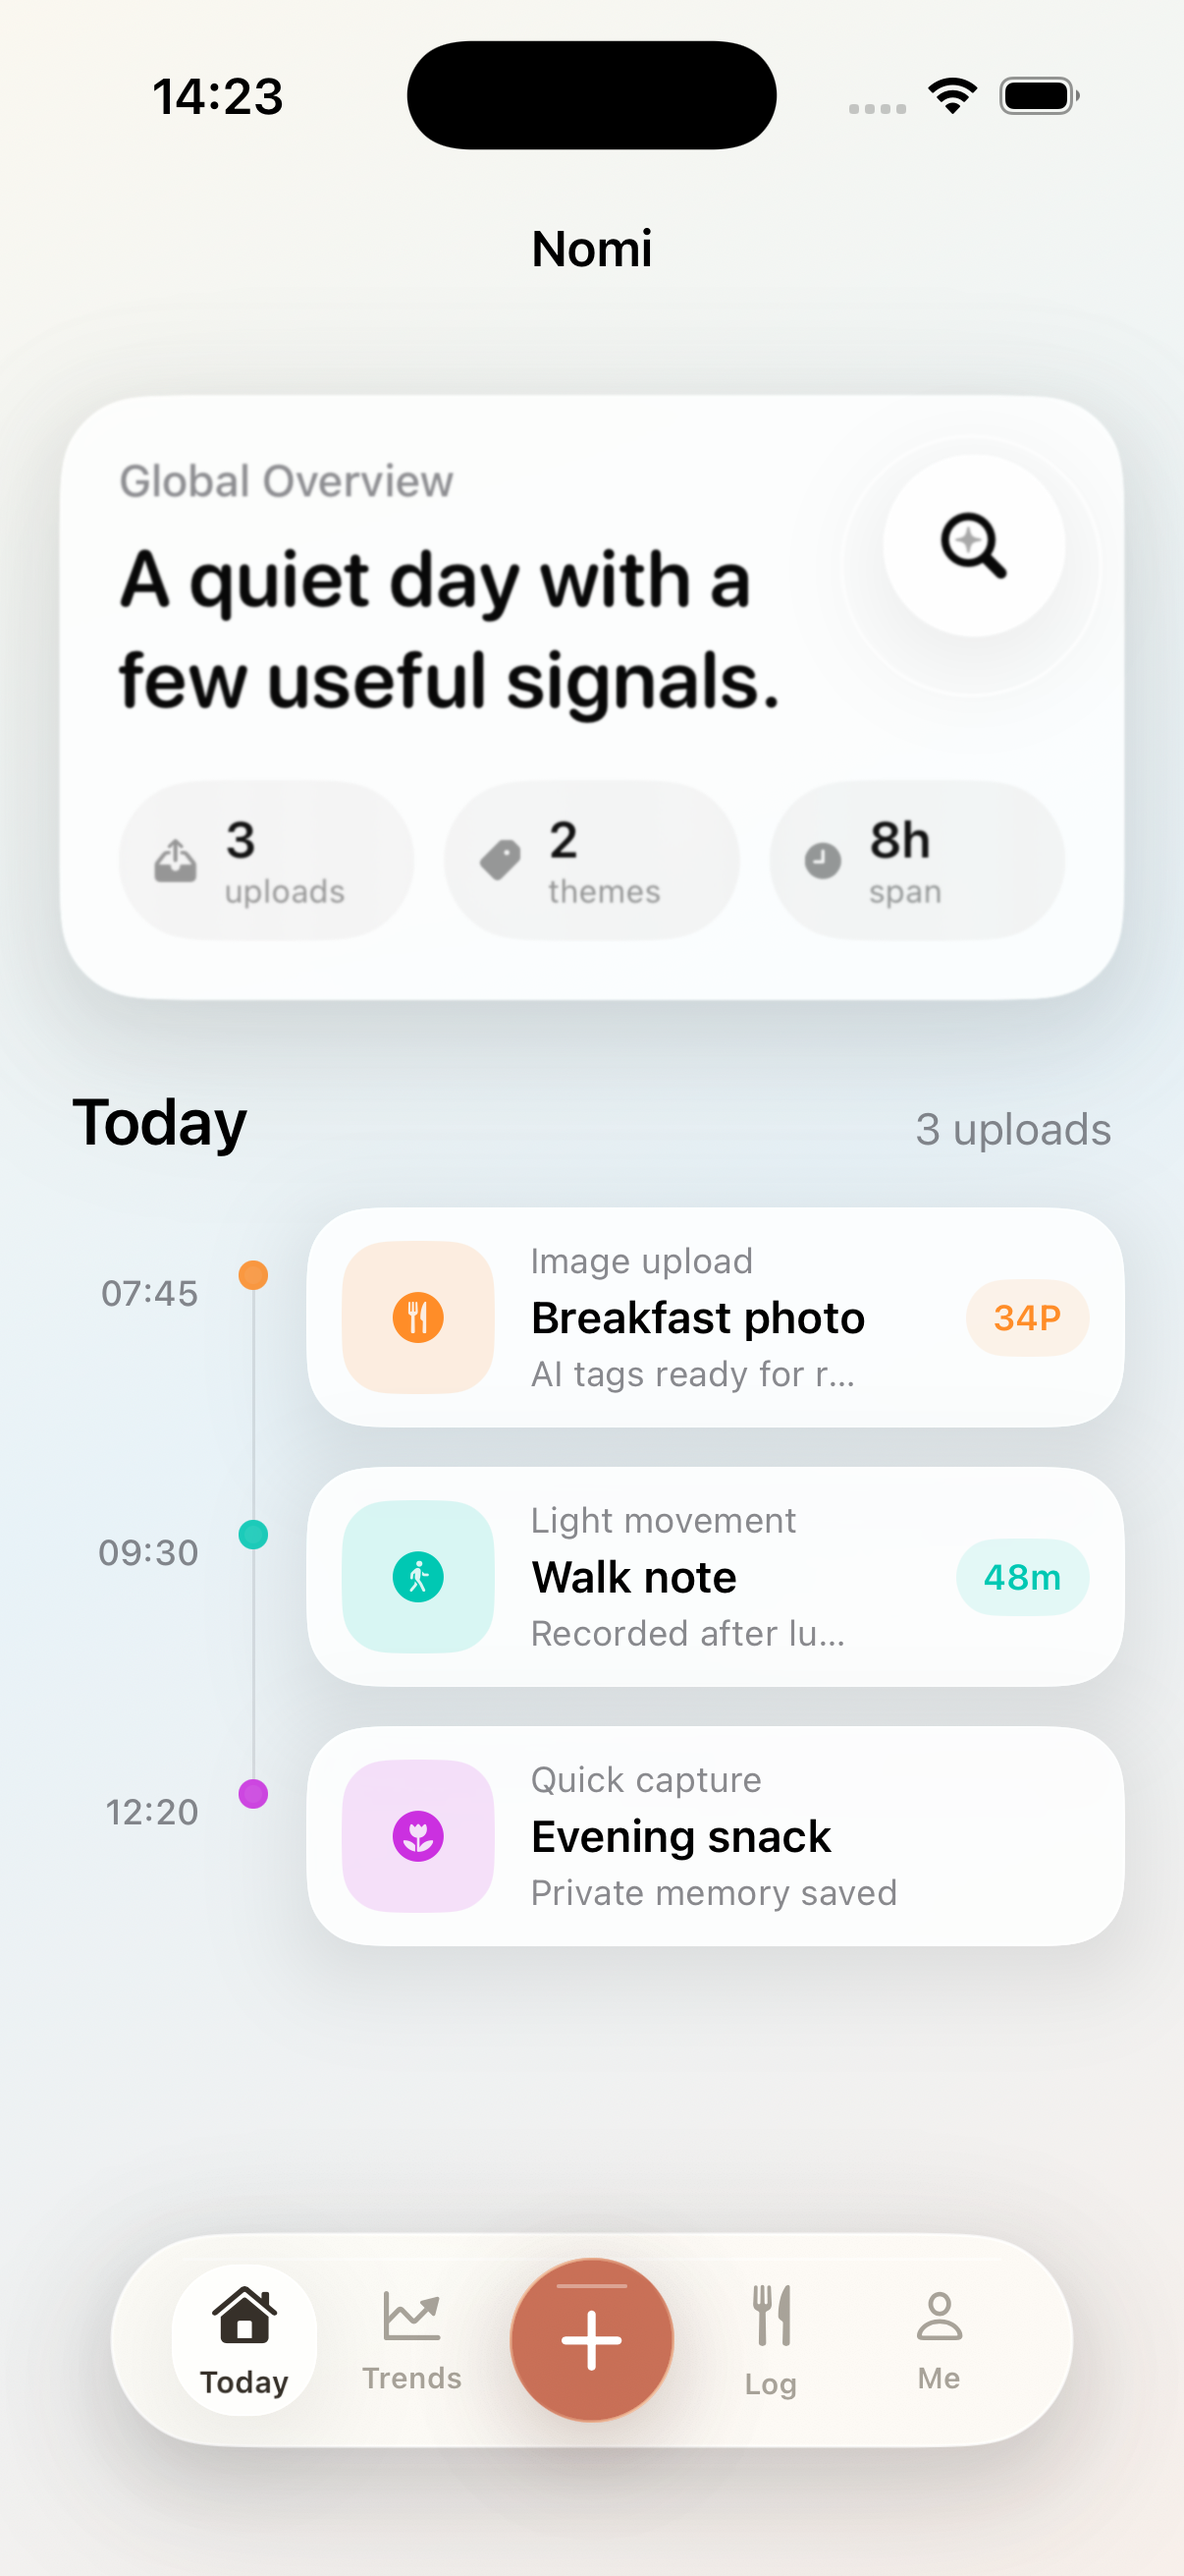
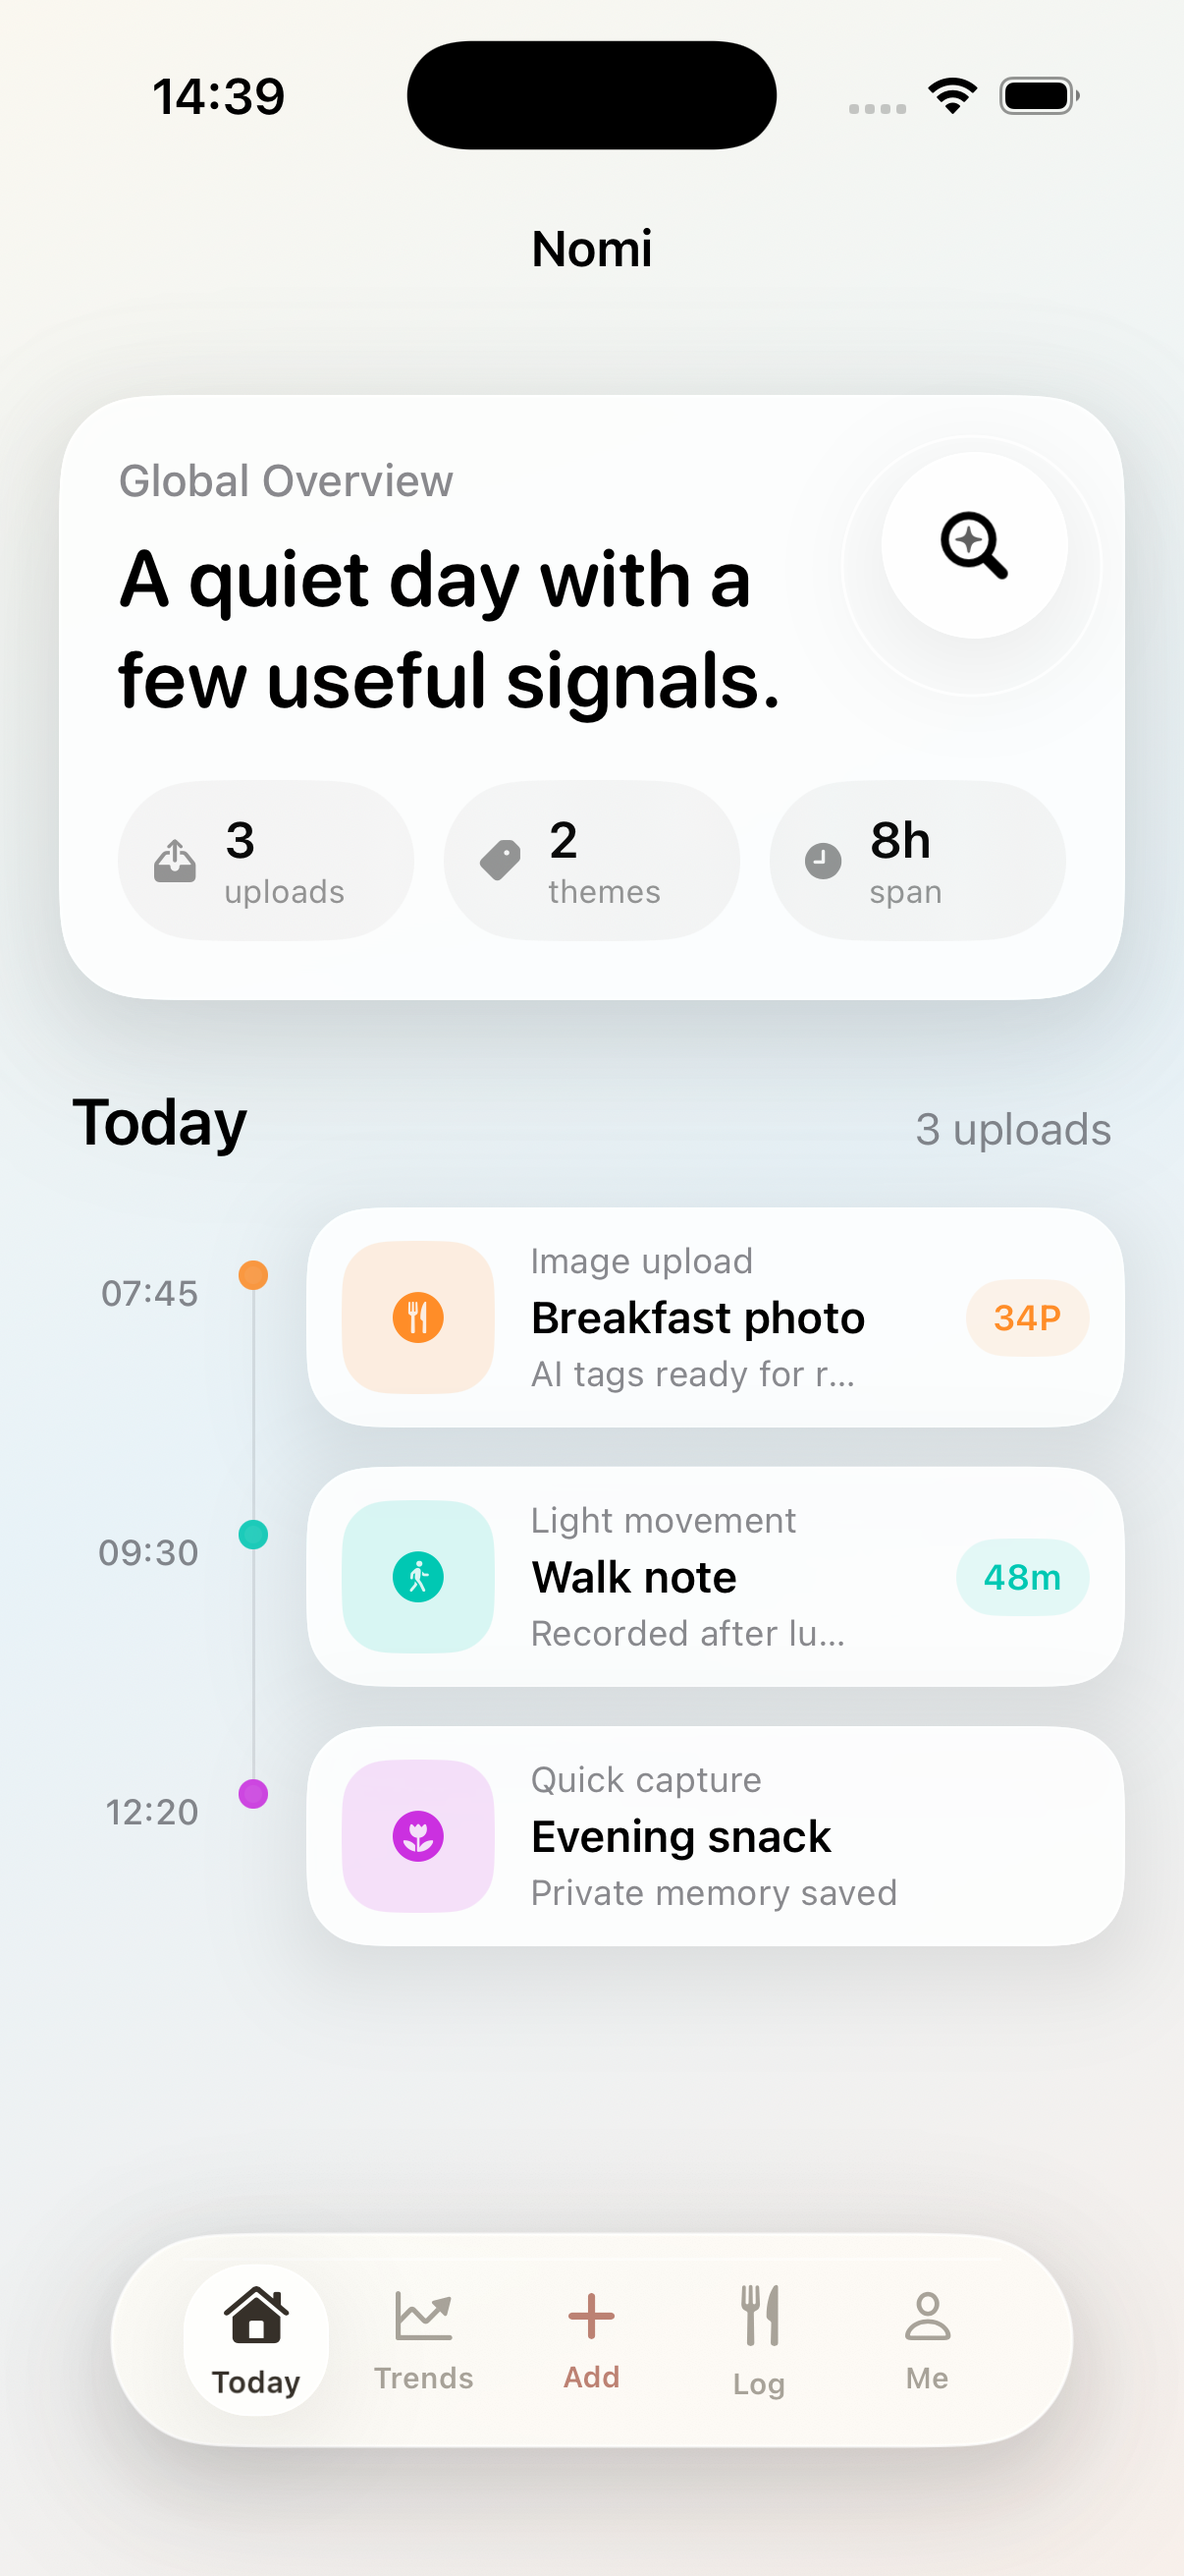
Normalize native upload nav item

diff --git a/apps/ios/NomiNative/ContentView.swift b/apps/ios/NomiNative/ContentView.swift
@@ -200,28 +200,29 @@ struct NomiBottomBar: View {
     private var uploadButton: some View {
         let isActive = activeSlot == .upload
 
-        return Image(systemName: "plus")
-            .font(.system(size: 25, weight: .medium))
-            .frame(width: 56, height: 56)
-            .background {
-                Circle()
-                    .fill(Color(red: 0.79, green: 0.44, blue: 0.34))
-                    .glassEffect(.regular.interactive(), in: .circle)
+        return VStack(spacing: 5) {
+            Image(systemName: "plus")
+                .font(.system(size: 19, weight: .semibold))
+                .symbolEffect(.bounce, value: activeSlot)
+            Text("Add")
+                .font(.system(size: 10, weight: .semibold))
+        }
+        .frame(width: 48, height: 50)
+        .foregroundStyle(Color(red: 0.66, green: 0.36, blue: 0.29).opacity(isActive ? 1 : 0.76))
+        .background {
+            if isActive {
+                RoundedRectangle(cornerRadius: 22, style: .continuous)
+                    .fill(Color(red: 0.80, green: 0.43, blue: 0.34).opacity(0.12))
+                    .glassEffect(.regular, in: .rect(cornerRadius: 22))
+                    .transition(.scale.combined(with: .opacity))
             }
-            .overlay(alignment: .top) {
-                Capsule()
-                    .fill(.white.opacity(0.36))
-                    .frame(width: 24, height: 1.4)
-                    .padding(.top, 9)
-            }
-            .foregroundStyle(.white)
-            .scaleEffect(isActive ? 1.06 : 1)
-            .shadow(color: Color(red: 0.39, green: 0.17, blue: 0.12).opacity(isActive ? 0.24 : 0.18), radius: isActive ? 18 : 14, y: 8)
-            .accessibilityLabel("Upload")
-            .accessibilityAddTraits(.isButton)
-            .accessibilityAction {
-                onAdd()
-            }
+        }
+        .scaleEffect(isActive ? 1.07 : 1)
+        .accessibilityLabel("Upload")
+        .accessibilityAddTraits(.isButton)
+        .accessibilityAction {
+            onAdd()
+        }
     }
 
     private func tabButton(_ tab: NomiTab) -> some View {

diff --git a/docs/histories/2026-05/20260507-1256-native-ios-mobile-shell.md b/docs/histories/2026-05/20260507-1256-native-ios-mobile-shell.md
@@ -8,7 +8,7 @@
 
 ### User Query
 
-> 将当前 React Native mobile 原型改为 Swift 原生 iOS app，先实现首页和上传上拉页；其他页面占位；风格参考 Apple / Liquid Glass，并在 iPhone 17 Pro simulator 自测截图，每个重要 milestone 提交。后续按截图反馈把 `+` 移到底部导航栏中央、加大 Upload sheet 顶部留白，收紧首页 timeline，把底栏从过重的参考图样式调回 Nomi 自身的轻量玻璃语言，并恢复底栏按住左右滑动的连续切换交互。
+> 将当前 React Native mobile 原型改为 Swift 原生 iOS app，先实现首页和上传上拉页；其他页面占位；风格参考 Apple / Liquid Glass，并在 iPhone 17 Pro simulator 自测截图，每个重要 milestone 提交。后续按截图反馈把上传入口移到底部导航栏中间、加大 Upload sheet 顶部留白，收紧首页 timeline，把底栏从过重的参考图样式调回 Nomi 自身的轻量玻璃语言，恢复底栏按住左右滑动的连续切换交互，并把中间上传入口内化为普通 Add 导航项。
 
 ### Changes Overview
 
@@ -17,11 +17,12 @@
 **Key Actions:**
 
 - **Native iOS scaffold**: 新增 versioned `apps/ios/NomiNative.xcodeproj`，目标 iOS 26.0，bundle id `dev.nomi.native`。
-- **Home screen**: 实现 SwiftUI 首页，包含顶部全局总览、紧凑今日 timeline、玻璃卡片、占位 tab 和底部导航栏中央 `+`。
+- **Home screen**: 实现 SwiftUI 首页，包含顶部全局总览、紧凑今日 timeline、玻璃卡片、占位 tab 和底部导航栏中间 Add 上传项。
 - **Upload sheet**: 实现上拉上传页，支持 Camera placeholder、PhotosPicker、fileImporter、图片选择后的本地 timeline 插入路径，以及上传进度动画。
 - **Feedback pass**: 根据视觉反馈移除顶部 `+`，新增自定义底部 glass nav；Upload sheet 顶部标题和关闭按钮增加上边距；timeline 改成时间 rail + 88pt 紧凑卡片。
-- **Bottom nav correction**: 将上一版过大的黑色胶囊底栏收回为较小的暖色玻璃底栏，中央 `+` 保持主入口，tab 选中态改为滑动玻璃底托以保留按键之间的流动感。
-- **Bottom nav gesture**: 将底栏从多个孤立按钮改为整条 bar 的 `DragGesture(minimumDistance: 0)`，按住左右滑动时根据手指 x 位置实时切换 tab；中央 `+` 仅在从 `+` 起手轻点释放时打开上传。
+- **Bottom nav correction**: 将上一版过大的黑色胶囊底栏收回为较小的暖色玻璃底栏，中间上传入口保持主动作位置，tab 选中态改为滑动玻璃底托以保留按键之间的流动感。
+- **Bottom nav gesture**: 将底栏从多个孤立按钮改为整条 bar 的 `DragGesture(minimumDistance: 0)`，按住左右滑动时根据手指 x 位置实时切换 tab；中间 Add 仅在从 Add 起手轻点释放时打开上传。
+- **Upload nav item**: 将中间上传入口从独立圆形 `+` 改为普通 Add 导航项，和其他 tab 保持 48x50 尺寸、文字标签、轻量按压反馈与底栏调性一致。
 - **Motion / style**: 使用 SwiftUI spring / smooth 动画、symbolEffect、contentTransition、glass button style 和 glassEffect，贴近 Apple-like / Liquid Glass 方向。
 - **Verification**: 在 iPhone 17 Pro simulator build / install / launch，并保存首页和上传 sheet 截图。
 

diff --git a/docs/exec-plans/completed/2026-05-07-native-ios-mobile-shell.md b/docs/exec-plans/completed/2026-05-07-native-ios-mobile-shell.md
@@ -6,7 +6,7 @@
 
 ## 范围
 
-- 包含：SwiftUI app scaffold、首页全局总览、紧凑今日 timeline、底部导航栏中央 `+` 触发的上传 sheet、Photos / Files 选择边界、占位 tab、Liquid Glass 风格视觉与动画、截图验证和文档同步。
+- 包含：SwiftUI app scaffold、首页全局总览、紧凑今日 timeline、底部导航栏中间 Add 上传项触发的上传 sheet、Photos / Files 选择边界、占位 tab、Liquid Glass 风格视觉与动画、截图验证和文档同步。
 - 不包含：server persistence、真实 AI 分类、真机 camera capture、完整 UI test target。
 
 ## 背景
@@ -47,7 +47,8 @@
 ## 决策记录
 
 - 2026-05-07：新建 `apps/ios/`，不复用 `apps/mobile/ios/`。原因是后者是 Expo prebuild generated / ignored output，不适合作为原生 SwiftUI app 的长期版本化边界。
-- 2026-05-07：优先使用系统 `NavigationStack`、SwiftUI sheet、`PhotosPicker`、`fileImporter` 和 iOS 26 glass modifiers；底部主导航用自定义暖色小 glass bar 承载中央上传入口。原因是目标风格要求 Apple-like / Liquid Glass，同时上传主动作需要稳定停留在拇指区中央，chrome 不能压过内容。
+- 2026-05-07：优先使用系统 `NavigationStack`、SwiftUI sheet、`PhotosPicker`、`fileImporter` 和 iOS 26 glass modifiers；底部主导航用自定义暖色小 glass bar 承载中间 Add 上传项。原因是目标风格要求 Apple-like / Liquid Glass，同时上传动作需要稳定停留在拇指区，chrome 不能压过内容。
 - 2026-05-07：将上传主入口从顶部导航栏迁到自定义底部栏中央，并将首页 timeline 改为时间 rail + 紧凑卡片。原因是移动端核心动作更适合拇指区，视觉密度也更接近目标参考图。
 - 2026-05-07：底部栏只参考位置关系，不复刻参考图黑色大胶囊；回到 Nomi 既有暖色玻璃、轻阴影和 matched-geometry 选中态流动。原因是 Nomi 的设计方向是 quiet / content over chrome。
-- 2026-05-07：底栏交互改为整条 bar 的连续拖拽命中，不再由孤立 Button 分别处理 tab；拖过 tab 时实时切换并给 selection haptic，中央 `+` 只有从 `+` 起手轻点释放才打开上传。原因是恢复原型里按住左右滑动的流动交互，同时避免滑过主按钮误触上传。
+- 2026-05-07：底栏交互改为整条 bar 的连续拖拽命中，不再由孤立 Button 分别处理 tab；拖过 tab 时实时切换并给 selection haptic，中间 Add 只有从 Add 起手轻点释放才打开上传。原因是恢复原型里按住左右滑动的流动交互，同时避免滑过上传项误触上传。
+- 2026-05-07：将中间上传入口从凸起圆形 `+` 收回为普通 Add 导航项，使用同尺寸、同标签和同按压反馈。原因是上传入口需要在底栏体系内一致存在，而不是作为视觉特例抢占注意力。

diff --git a/docs/QUALITY_SCORE.md b/docs/QUALITY_SCORE.md
@@ -15,7 +15,7 @@
 | --- | --- | --- | --- |
 | 产品面 | B | 已有 Nomi MVP spec、非医疗边界、设计原则和 mobile skeleton。 | 下一步让 capture 真正写入本地 record store。 |
 | 架构文档 | B | 已替换为 Nomi 的 mobile / server / Postgres 目标结构，并明确复用 `../seedx` daemon。 | server、SeedX command 调度和 Postgres 落地后继续补启动与数据流细节。 |
-| 前端 | B | 新增原生 SwiftUI iOS app skeleton，已覆盖首页全局总览、紧凑今日 timeline、底部中央 `+` 上拉上传 sheet、较小的暖色玻璃底栏、底栏按住左右滑动切换 tab、Photos / Files 选择边界、占位 tab 和 Liquid Glass 风格动画；Expo app 仍可启动，保留 upload-only 工作台和 iOS Vision cutout Expo module。 | 继续把原生 iOS 接入持久化 record store、真实 camera / Photos / Files 上传 E2E、AI 分类 adapter 和更细的 UI 自动化测试。 |
+| 前端 | B | 新增原生 SwiftUI iOS app skeleton，已覆盖首页全局总览、紧凑今日 timeline、底部 Add 上传导航项上拉上传 sheet、较小的暖色玻璃底栏、底栏按住左右滑动切换 tab、Photos / Files 选择边界、占位 tab 和 Liquid Glass 风格动画；Expo app 仍可启动，保留 upload-only 工作台和 iOS Vision cutout Expo module。 | 继续把原生 iOS 接入持久化 record store、真实 camera / Photos / Files 上传 E2E、AI 分类 adapter 和更细的 UI 自动化测试。 |
 | 测试 | C | 已有 mobile TypeScript 检查、domain smoke、upload source / save record 映射覆盖、Expo web smoke 截图；原生 iOS 已通过 iPhone 17 Pro simulator build / install / launch 和首页、上传 sheet 截图 smoke；本地 Expo iOS XCUITest 已覆盖 upload FAB、camera unavailable 反馈、Files picker、Photos picker、Files 选文件后 review / Upload 保存路径、Photos 选图后 review / Upload 保存路径，以及 deep link fixture 下的 camera-source review / Upload 保存路径。 | 给原生 SwiftUI app 增加 UI test target，覆盖打开上传 sheet、picker 选择后的 Upload 保存路径和 timeline 插入；增加 camera capture 真机链路和仓库级 mobile check 命令。 |
 | 后端 | B | Go server 可启动，health、records、Ask mock、Postgres schema 和 SeedX `/daemon/connect` endpoint 已落地；SeedX websocket 支持 Bearer API key。 | 补 records / Ask 用户认证、Postgres 集成测试和 mobile API adapter。 |
 | 可观测性 | C | Server 已使用 Zap 日志，websocket smoke 能看到 connected / sent / received。 | 补 metrics / traces、websocket 指标和结构化 request id。 |

diff --git a/docs/ARCHITECTURE.md b/docs/ARCHITECTURE.md
@@ -4,7 +4,7 @@ Nomi / 知己 是一个个人身体与生活记录产品。第一阶段目标是
 
 ## 当前仓库结构
 
-- `apps/ios/`：原生 SwiftUI iOS app。当前先实现 iPhone 优先的 mobile skeleton：首页包含顶部全局总览、紧凑今日 timeline 和底部暖色小玻璃导航栏中央 `+`，中央入口打开上拉上传 sheet；Trends / Log / Me 先作为占位 tab。视觉方向使用系统字体、SwiftUI sheet、Liquid Glass 风格按钮 / 玻璃卡片、轻量动画和可按住左右滑动的连续选中态流动。
+- `apps/ios/`：原生 SwiftUI iOS app。当前先实现 iPhone 优先的 mobile skeleton：首页包含顶部全局总览、紧凑今日 timeline 和底部暖色小玻璃导航栏；中间 Add 上传项以普通导航项样式打开上拉上传 sheet，Trends / Log / Me 先作为占位 tab。视觉方向使用系统字体、SwiftUI sheet、Liquid Glass 风格按钮 / 玻璃卡片、轻量动画和可按住左右滑动的连续选中态流动。
 - `apps/mobile/`：Expo mobile app。保留为迁移前的 React Native 原型和 domain smoke 载体。当前收敛为 iPhone 优先的单一上传工作台：底部使用悬浮玻璃导航，中央圆形入口展开拍摄 / 相册 / 文件三种来源，选择后进入原图 AI 分类、上传处理动画和原图 / 抠图区分展示；保存仍写入本地内存 records，Ask boundary smoke 保留在 domain 层。
 - `apps/server/`：Go API server。当前提供 health、record persistence、Ask mock boundary、Postgres schema 初始化和 SeedX daemon websocket 控制面。
 - `docs/product-specs/`：产品规格和 MVP 验收范围。

diff --git a/docs/FRONTEND.md b/docs/FRONTEND.md
@@ -47,7 +47,7 @@ npx expo start --web --port 8081 --clear
 
 ## 当前界面
 
-- Native iOS Home：顶部是全局总览玻璃卡片，下面是时间轴 rail + 紧凑记录卡片；底部是较小的暖色悬浮玻璃导航栏，中央 `+` 打开上拉上传 sheet，选中 tab 使用滑动玻璃底托过渡；底栏整条支持按住后左右滑动切换 tab，滑过中央 `+` 不会误打开上传。Trends / Log / Me 暂时是占位 tab。
+- Native iOS Home：顶部是全局总览玻璃卡片，下面是时间轴 rail + 紧凑记录卡片；底部是较小的暖色悬浮玻璃导航栏，中间 Add 上传项和其他项同尺寸同视觉语言，轻点打开上拉上传 sheet；选中 tab 使用滑动玻璃底托过渡；底栏整条支持按住后左右滑动切换 tab，滑过 Add 不会误打开上传。Trends / Log / Me 暂时是占位 tab。
 - Native iOS Upload Sheet：提供 Camera / Photos / Files 三个来源，并为 sheet 顶部标题和关闭按钮保留额外上边距。Photos 使用 `PhotosPicker`，Files 使用 SwiftUI `fileImporter`，选择图片后可通过 Upload 写入本地 timeline；Simulator 上 Camera 暂为 unavailable placeholder。
 - Upload Workbench：默认主入口。底部导航是悬浮玻璃胶囊，中央是圆形主按钮，点开后三个来源按钮按拍摄、相册、文件的顺序用 `Animated.stagger` 顺时针展开；点击 X、点击菜单外区域或选择任一来源都会收起菜单。
 - Source pickers：拍摄和相册使用 `expo-image-picker`，文件使用 `expo-document-picker`，当前限制为 image 文件，面向 iPhone 上传路径。
